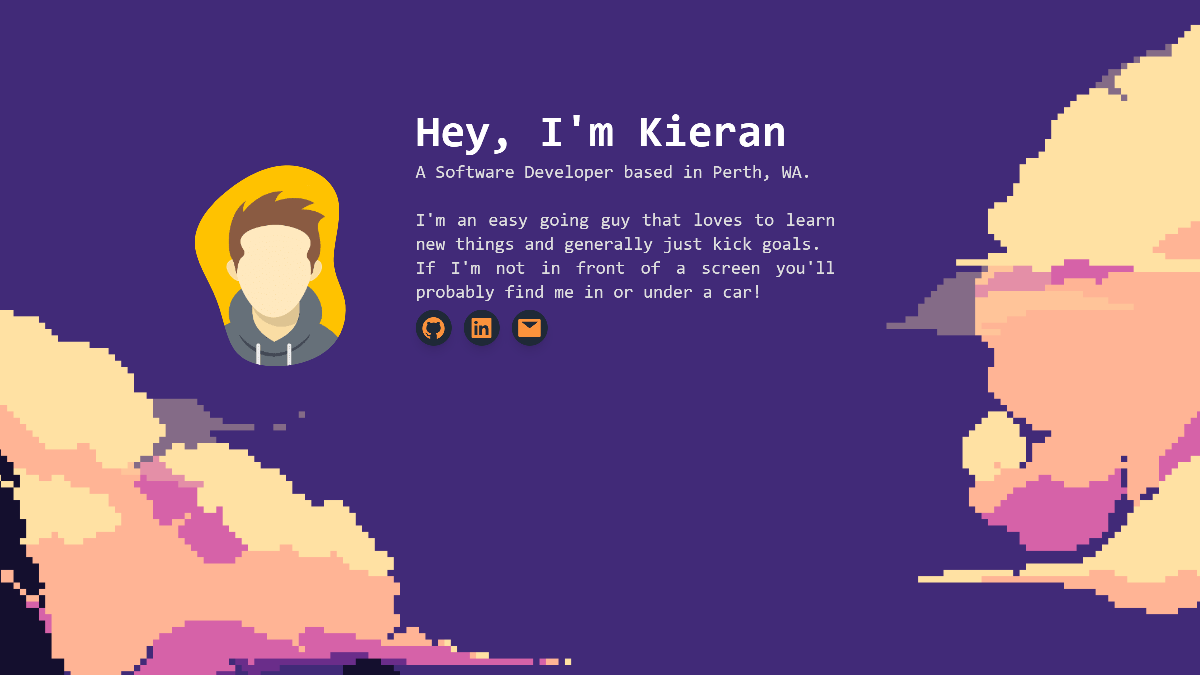
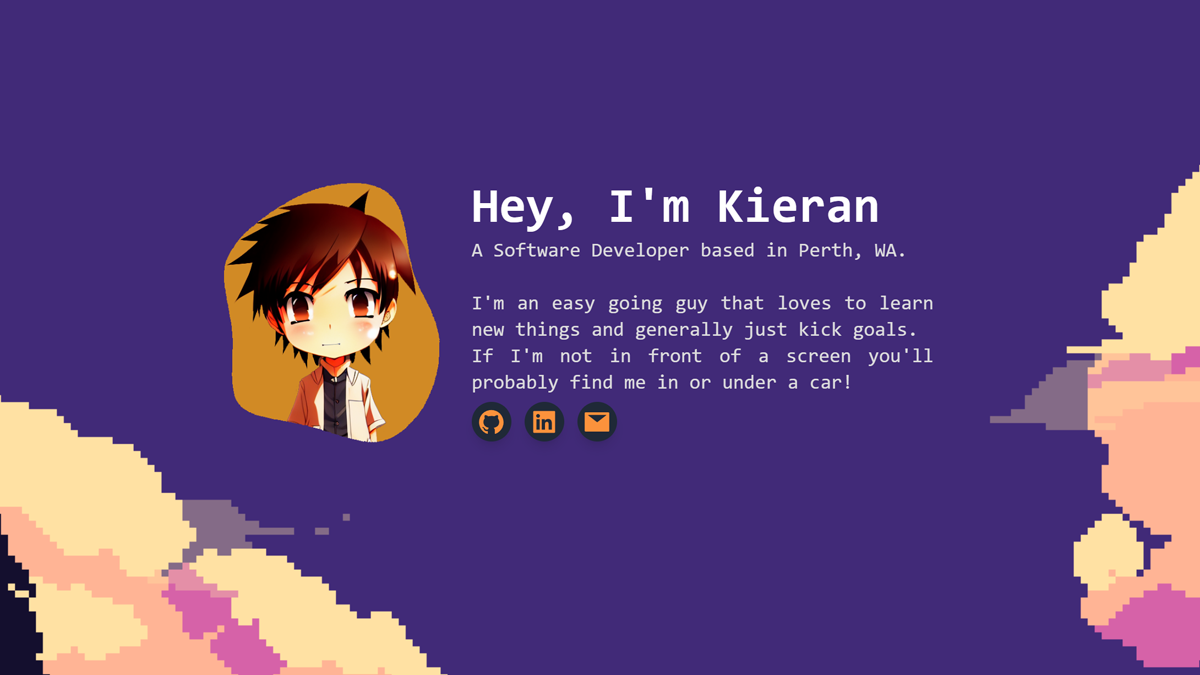
Update styling, change pictures and include GitHub repo links

diff --git a/src/app/portfolio-item/obsidian/page.tsx b/src/app/portfolio-item/obsidian/page.tsx
@@ -1,6 +1,7 @@
 'use client'
 
 import Link from 'next/link';
+import { AiFillGithub } from 'react-icons/ai';
 import { BsFillArrowLeftCircleFill } from 'react-icons/bs';
 
 const Obsidian = () => {
@@ -20,12 +21,16 @@ const Obsidian = () => {
                     <img className='max-h-full max-w-full aspect-standard' src='../shard.png'></img>
                 </div>
                 <ul className='flex justify-center gap-4 h-fit py-2 xs:text-sm flex-wrap'>
-                <li className='rounded-md bg-feature-2 text-white font-semibold px-2 py-1'>Java</li>
-                        <li className='rounded-md bg-feature-2 text-white font-semibold px-2 py-1'>Modding</li>
-                        <li className='rounded-md bg-feature-2 text-white font-semibold px-2 py-1'>Gaming</li>  
+                    <li className='rounded-md bg-feature-2 text-white font-semibold px-2 py-1'>Java</li>
+                    <li className='rounded-md bg-feature-2 text-white font-semibold px-2 py-1'>Modding</li>
+                    <li className='rounded-md bg-feature-2 text-white font-semibold px-2 py-1'>Gaming</li>  
                 </ul>
                 <div className='text-white text-lg rounded-md p-2 grid place-items-center xs:text-base'>                  
-                    <p className='w-2/3 xs:w-full text-justify'>Improved Obsidian is a minecraft mod that I made in Java which has over 1000 downloads. I developed it to suit 2 different modding platforms and also actively update it to keep in line with the most up to date versions of Minecraft. My original iteration was built on the Fabric framework but I have since built it to suit the Forge framework.</p>
+                    <p className='w-2/3 xs:w-full text-justify'>Improved Obsidian is a minecraft mod that I made in Java which has over 800 downloads. I developed it to suit the Fabric modding platform and also plan to keep it updated in line with the most recent versions of Minecraft.</p>
+                    <div className="sidebar-icon group">
+                        <a href='https://github.com/nfctargus/improved-obsidian-1.19'><AiFillGithub size={34} /></a>
+                        <span className="sidebar-tooltip group-hover:scale-100">Link to Github Repo</span>
+                    </div>
                 </div>
             </div>
         </div>

diff --git a/src/app/portfolio-item/chats/page.tsx b/src/app/portfolio-item/chats/page.tsx
@@ -1,6 +1,7 @@
 'use client'
 
 import Link from 'next/link';
+import { AiFillGithub } from 'react-icons/ai';
 import { BsFillArrowLeftCircleFill } from 'react-icons/bs';
 
 const Chats = () => {
@@ -16,8 +17,8 @@ const Chats = () => {
                     </div>
                 </div>
                 <h1 className='text-primary-2 text-3xl font-bold text-center mb-4'>Skol</h1>
-                <div className='h-3/4 w-full p-2 grid place-items-center xs:p-0'>
-                    <img className='max-h-full max-w-full aspect-standard' src='../bridge.jpg'></img>
+                <div className='h-3/4 w-full p-2 grid place-items-center xs:p-0 xs:hidden'>
+                    <img className='max-h-full max-w-full aspect-standard' src='../skol.png'></img>
                 </div>
                 <ul className='flex justify-center gap-4 h-fit py-2 xs:text-sm flex-wrap'>
                     <li className='rounded-md bg-feature-2 text-white font-semibold px-2 py-1'>TypeScript</li>
@@ -27,6 +28,10 @@ const Chats = () => {
                 </ul>
                 <div className='text-white text-lg rounded-md p-2 grid place-items-center xs:text-base max-h-56 xs:overflow-y-scroll'>                  
                     <p className='w-2/3 xs:w-full text-justify'>Skol is a real time chat application I designed and built. I followed several online tutorial series to learn the key concepts needed to build this chat application. In fact, I actually gave up and started from scratch several times until I was finally able to complete it. My application features all the basic features you would expect to see in a chat application such as adding/removing friends, chatting with those friends via private chats, creating group chats and then personalising those group chats. You can leave a group, edit messages, delete messages and even delete messages from other users in a group (as long as you are the group creator)</p>
+                    <div className="sidebar-icon group">
+                        <a href='https://github.com/nfctargus/skol-backend'><AiFillGithub size={34} /></a>
+                        <span className="sidebar-tooltip group-hover:scale-100">Link to Github Repo</span>
+                    </div>
                 </div>
             </div>
         </div>

diff --git a/src/app/portfolio-item/books/page.tsx b/src/app/portfolio-item/books/page.tsx
@@ -1,6 +1,7 @@
 'use client'
 
 import Link from 'next/link';
+import { AiFillGithub } from 'react-icons/ai';
 import { BsFillArrowLeftCircleFill } from 'react-icons/bs';
 
 const Books = () => {
@@ -16,7 +17,7 @@ const Books = () => {
                     </div>
                 </div>
                 <h1 className='text-primary-2 text-3xl font-bold text-center mb-4'>Book Collections</h1>
-                <div className='h-3/4 w-full p-2 grid place-items-center xs:p-0'>
+                <div className='h-3/4 w-full p-2 grid place-items-center xs:p-0 xs:hidden'>
                     <img className='h-auto max-w-full aspect-standard' src='../medialibrary.png'></img>
                 </div>
                 <ul className='flex justify-center gap-4 h-fit py-2 xs:text-sm flex-wrap'>
@@ -27,6 +28,10 @@ const Books = () => {
                 </ul>
                 <div className='text-white text-lg rounded-md p-2 grid place-items-center xs:text-base max-h-56 '>                  
                     <p className='w-2/3 xs:w-full text-justify'>A tool to keep track of your book collection. Data is stored in MongoDB and is fetched from the Google Books API. I wrote this project in Angular and NodeJS. Working with an API was completely new to me and this helped me gain an understanding of what an API is and how to interact with one.</p>
+                    <div className="sidebar-icon group">
+                        <a href='https://github.com/nfctargus/book-collection-reviewer'><AiFillGithub size={34} /></a>
+                        <span className="sidebar-tooltip group-hover:scale-100">Link to Github Repo</span>
+                    </div>
                 </div>
             </div>
         </div>

diff --git a/src/app/components/Hero.tsx b/src/app/components/Hero.tsx
@@ -4,15 +4,8 @@ const Hero = () => {
     return (
         <div className="w-full h-90vh flex justify-center align-middle py-56 font-vt323 xs:flex-col xs:py-32 xs:h-screen" id='home'>
             <div className='xs:w-full w-45% h-full flex justify-end mr:auto xs:grid xs:place-items-center xs:justify-center'>
-                <div className='h-112 flex justify-end align-middle xs:justify-center xs:h-72 '>
-                    <svg className="w-3/4 h-full xs:w-3/4 xs:h-full" id="sw-js-blob-svg" viewBox="0 0 100 100" xmlns="http://www.w3.org/2000/svg" version="1.1">
-                        <defs>
-                            <mask id="svg-mask">
-                                <path fill="rgba(255, 255, 255, 1)" width="100%" height="100%" d="M18.9,-31.7C21.2,-24.3,17.5,-14.4,17.4,-7.4C17.3,-0.4,20.7,3.7,21.8,9.2C22.9,14.6,21.7,21.4,17.7,26.3C13.7,31.2,6.8,34.3,-0.7,35.2C-8.2,36.2,-16.4,35.1,-20.9,30.3C-25.3,25.5,-26,17.1,-29.1,9.1C-32.2,1.1,-37.8,-6.5,-37.7,-13.9C-37.6,-21.3,-31.8,-28.6,-24.6,-34.3C-17.3,-40.1,-8.7,-44.5,-0.2,-44.2C8.3,-43.9,16.6,-39.1,18.9,-31.7Z" transform="translate(50 50)" strokeWidth="0"></path>
-                            </mask>
-                        </defs>
-                        <image href="./smee2.png" width="100%" height="100%" mask="url(#svg-mask)" />
-                    </svg>
+                <div className='h-80 flex justify-end align-middle xs:justify-center xs:h-72 '>
+                    <img src='./smee.png'></img>
                 </div>
             </div>
             <div className="w-55% h-full flex align-middle flex-col justify-start xs:bg-primary-1 xs:bg-opacity-95 xs:w-full xs:grid xs:place-items-center">

diff --git a/src/app/components/Footer.tsx b/src/app/components/Footer.tsx
@@ -6,7 +6,7 @@ const Footer = () => {
     return (
         <div className="w-full absolute bottom-0 h-56 text-white font-vt323" id="contact">
             <div className="p-2 flex flex-col justify-center align-middle bg-primary-1 bg-opacity-95 absolute bottom-0 w-full">
-                <ul className="flex flex-row gap-2 text-xl justify-center">
+                <ul className="flex flex-row gap-2 text-xl justify-center xs:text-base">
                     <li className='footerLi'>
                         <Link onClick={navigateTo} href="#home">Home</Link>
                     </li>
@@ -23,8 +23,8 @@ const Footer = () => {
                         <a href="mailto:kieranlawrence2@gmail.com">Contact</a>
                     </li>
                 </ul>
-                <small className="flex justify-center text-gray-200 pb-1 text-base">Code By Kieran © 2023</small>
-                <small className="flex justify-center text-gray-200 text-[11px]">Background Art credit to <br /> <a href='https://www.instagram.com/mat.pixelart/' className='px-2 underline text-feature-2 hover:text-white transition-all duration-150'> @matt.pixelart</a> on Instagram</small>
+                <small className="flex justify-center text-gray-200 pb-1 text-base xs:text-sm">Code By Kieran © 2023</small>
+                <small className="flex justify-center text-gray-200 text-[11px] xs:text-[10px]">Background Art credit to <br /> <a href='https://www.instagram.com/mat.pixelart/' className='px-2 underline text-feature-2 hover:text-white transition-all duration-150'> @matt.pixelart</a> on Instagram</small>
             </div>
         </div>
     );

diff --git a/src/app/portfolio-item/portfolio/page.tsx b/src/app/portfolio-item/portfolio/page.tsx
@@ -1,6 +1,7 @@
 'use client'
 
 import Link from 'next/link';
+import { AiFillGithub } from 'react-icons/ai';
 import { BsFillArrowLeftCircleFill } from 'react-icons/bs';
 
 const Portfolio = () => {
@@ -16,7 +17,7 @@ const Portfolio = () => {
                     </div>
                 </div>
                 <h1 className='text-primary-2 text-3xl font-bold text-center mb-4'>Portfolio Website</h1>
-                <div className='h-3/4 w-full p-2 grid place-items-center xs:p-0'>
+                <div className='h-3/4 w-full p-2 grid place-items-center xs:p-0 xs:hidden'>
                     <img className='max-h-full max-w-full aspect-standard' src='../thiswebsite.png'></img>
                 </div>
                 <ul className='flex justify-center gap-4 h-fit py-2 xs:text-sm flex-wrap'>
@@ -26,6 +27,10 @@ const Portfolio = () => {
                 </ul>
                 <div className='text-white text-lg rounded-md p-2 grid place-items-center xs:text-base max-h-56'>                  
                     <p className='w-2/3 xs:w-full'>I made this website using NextJS, and it is actually my second iteration of my website. The source code to this as well as my first iteration made in React can be found on my GitHub!</p>
+                    <div className="sidebar-icon group">
+                        <a href='https://github.com/nfctargus/my-website-nextjs'><AiFillGithub size={34} /></a>
+                        <span className="sidebar-tooltip group-hover:scale-100">Link to Github Repo</span>
+                    </div>
                 </div>
             </div>
         </div>

diff --git a/src/app/components/Portfolio.tsx b/src/app/components/Portfolio.tsx
@@ -9,7 +9,7 @@ const Portfolio = () => {
                 {portfolioItems && portfolioItems.map((item) => (
                     <div className="bg-primary-1 text-primary-2 p-2 max-h-128 rounded-md xs:w-screen xs:px-5" key={item.id}>
                         <Link href={item.url ? `/portfolio-item/${item.url}` : '/#portfolio'} className="p-2 grid place-items-center">
-                            <img src={item.imgPath} className="h-full w-full aspect-standard hover:scale-101 transition-all duration-100"></img>
+                            <img src={item.imgPath} className="w-auto max-h-full aspect-video hover:scale-101 transition-all duration-100"></img>
                             <h1 className="xs:text-base text-xl text-gray-200 font-semibold">{`${item.name} • ${item.publishDate}`}</h1>
                         </Link>
                     </div>

diff --git a/src/app/globals.css b/src/app/globals.css
@@ -37,23 +37,14 @@ body:after {
         background-size: contain;
     }
     .cards {
-        width:75%;
+        width:50%;
         padding:1rem;
         display: grid;
         grid-template-columns: repeat(auto-fill, minmax(30rem, 1fr));
         grid-gap: 1rem;
     }
-    .scrollableContainer {
-        height:100%;
-        overflow-y:scroll;
-        -ms-overflow-style: none;  /* IE and Edge */
-        scrollbar-width: none;  /* Firefox */
-    }
     .educationItem {
         @apply py-1;
-    }
-    .scrollableContainer::-webkit-scrollbar {
-        display: none;
     }
     .menuListItem {
         @apply cursor-pointer hover:text-feature-1;

diff --git a/src/utils/data.ts b/src/utils/data.ts
@@ -30,8 +30,8 @@ export const portfolioItems:PortfolioItem[] = [
     {
         id:2,
         name:"Skol",
-        imgPath:"./bridge.jpg",
-        publishDate:"Jul 2023",
+        imgPath:"./skol.png",
+        publishDate:"Jun 2023",
         url:'chats'
     },
     {
@@ -41,13 +41,13 @@ export const portfolioItems:PortfolioItem[] = [
         publishDate:"Jul 2023",
         url:'portfolio'
     },
-    {
+/*     {
         id:3,
         name:"Coming Soon",
         imgPath:"./comingsoon.png",
         publishDate:"2023",
         url:'upcoming',
-    },
+    }, */
 ]
 export const jobHistoryItems:JobItem[] = [
     {

diff --git a/src/app/portfolio-item/upcoming/page.tsx b/src/app/portfolio-item/upcoming/page.tsx
@@ -16,7 +16,7 @@ const Upcoming = () => {
                     </div>
                 </div>
                 <h1 className='text-primary-2 text-3xl font-bold text-center mb-4'>Coming Soon</h1>
-                <div className='h-3/4 w-full p-2 grid place-items-center xs:p-0'>
+                <div className='h-3/4 w-full p-2 grid place-items-center xs:p-0 xs:hidden'>
                     <img className='max-h-full max-w-full aspect-standard' src='../comingsoon.png'></img>
                 </div>
                 <ul className='flex justify-center gap-4 h-fit py-2 xs:text-sm flex-wrap'>
